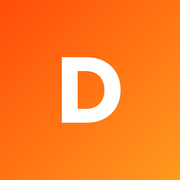
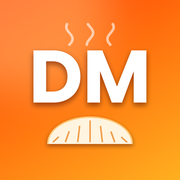
apple

diff --git a/index.html b/index.html
@@ -90,6 +90,24 @@ table{width:100%;border-collapse:collapse;font-size:14px}th,td{text-align:left;p
 .inst .x{border:0;background:none;font-size:20px;color:var(--mut);cursor:pointer;padding:6px}
 body.hasinst .fab{bottom:calc(98px + env(safe-area-inset-bottom,0px))}body.hasinst .toast{bottom:calc(170px + env(safe-area-inset-bottom,0px))}
 .bcx{font:inherit;line-height:1.5;resize:vertical}
+.hero{grid-template-columns:minmax(0,1.05fr) minmax(0,1fr)}
+@media(max-width:820px){.hero{grid-template-columns:minmax(0,1fr)}}
+.hero>*,.grid>*{min-width:0}
+html,body{max-width:100%;overflow-x:clip}
+.logo .lm,.lm{background:var(--gr);color:#fff;font-size:13px;letter-spacing:-.05em;box-shadow:0 6px 16px -8px rgba(255,90,20,.9)}
+header{transition:transform .25s}
+@media(max-width:720px){
+header{padding:6px 8px 0}header.hide{transform:translateY(-130%)}
+.hd{flex-wrap:nowrap;overflow-x:auto;gap:6px;padding:6px 8px;border-radius:14px;scrollbar-width:none;-webkit-overflow-scrolling:touch}
+.hd::-webkit-scrollbar{display:none}.hd>*{flex:none}
+.hd .logo{margin-right:2px;font-size:15px}.hd .lm{width:28px;height:28px;border-radius:8px;margin-right:6px;font-size:11px}
+.hd input{flex:0 0 120px;max-width:none;min-height:34px;padding:5px 10px;font-size:13px;border-radius:10px}
+.hd .ib{width:34px;height:34px;border-radius:10px;font-size:15px}
+.hd .btn.s{padding:5px 11px;min-height:34px;font-size:12.5px;border-radius:10px;white-space:nowrap}
+}
+.tms{display:flex;gap:12px;overflow-x:auto;scroll-snap-type:x mandatory;padding:6px 2px 12px;-webkit-overflow-scrolling:touch}
+.tm{flex:0 0 190px;scroll-snap-align:start;border:1px solid var(--line);border-radius:18px;overflow:hidden;background:var(--card);cursor:zoom-in}
+.tm img{display:block;width:100%;aspect-ratio:3/4;object-fit:cover;background:var(--soft)}.tm small{display:block;padding:8px 10px;color:var(--mut);min-height:34px}
 </style></head><body><div id="pg"></div><div id="app"></div>
 <script>
 const $=s=>document.querySelector(s),rp=n=>'Rp'+Math.round(n).toLocaleString('id-ID'),KEY='dimsummama1';
@@ -123,7 +141,7 @@ function go(h){location.hash=h}
 function draw(){expire();const r=route();let c='';
  if(r=='/')c=home();else if(r=='/keranjang')c=cart();else if(r=='/checkout')c=checkout();else if(r.startsWith('/bayar/'))c=pay(r.slice(7));else if(r=='/cek')c=cek();else if(r=='/faq')c=faq();else if(r=='/akun')c=akun();else if(r=='/admin')c=admin();else c=home();
  const n=S.cart.reduce((a,c)=>a+c.q,0);
- $('#app').innerHTML=`<header><div class="hd"><div class="logo" onclick="go('/')"><span class="lm">D</span>Dimsum&nbsp;<span>Mama</span></div><input id="q" placeholder="Cari produk…" value="${esc(V.q)}" oninput="V.q=this.value;if(route()!='/')go('/');else grid()"><button class="ib" onclick="theme()" aria-label="Ganti tema">${document.documentElement.dataset.theme=='dark'?'☀':'☾'}</button><button class="btn o s" onclick="go('/cek')">Cek pesanan</button><button class="btn o s" onclick="go('/faq')">FAQ</button><button class="btn o s" onclick="go('/akun')">${me()?'👤 '+esc(me().u):'Masuk'}</button><button class="btn s" onclick="go('/keranjang')">Keranjang (${n})</button></div></header><div class="w">${c}<p style="margin-top:30px"><a href="#/admin" class="mut">Masuk admin</a></p></div>${V.open?modal():''}${lbHTML()}<button class="fab" onclick="wa()" aria-label="WhatsApp"><svg width="26" height="26" viewBox="0 0 24 24" fill="none" stroke="currentColor" stroke-width="2" stroke-linecap="round" stroke-linejoin="round"><path d="M21 11.5a8.4 8.4 0 0 1-12.4 7.4L3 20.5l1.7-5.4A8.5 8.5 0 1 1 21 11.5z"/></svg></button>`;
+ $('#app').innerHTML=`<header><div class="hd"><div class="logo" onclick="go('/')"><span class="lm">DM</span>Dimsum&nbsp;<span>Mama</span></div><input id="q" placeholder="Cari produk…" value="${esc(V.q)}" oninput="V.q=this.value;if(route()!='/')go('/');else grid()"><button class="ib" onclick="theme()" aria-label="Ganti tema">${document.documentElement.dataset.theme=='dark'?'☀':'☾'}</button><button class="btn o s" onclick="go('/cek')">Cek pesanan</button><button class="btn o s" onclick="go('/faq')">FAQ</button><button class="btn o s" onclick="go('/akun')">${me()?'👤 '+esc(me().u):'Masuk'}</button><button class="btn s" onclick="go('/keranjang')">Keranjang (${n})</button></div></header><div class="w">${c}<p style="margin-top:30px"><a href="#/admin" class="mut">Masuk admin</a></p></div>${V.open?modal():''}${lbHTML()}<button class="fab" onclick="wa()" aria-label="WhatsApp"><svg width="26" height="26" viewBox="0 0 24 24" fill="none" stroke="currentColor" stroke-width="2" stroke-linecap="round" stroke-linejoin="round"><path d="M21 11.5a8.4 8.4 0 0 1-12.4 7.4L3 20.5l1.7-5.4A8.5 8.5 0 1 1 21 11.5z"/></svg></button>`;
  if(r=='/')grid();if(r=='/checkout')kurUI()}
 addEventListener('hashchange',draw);
 try{document.documentElement.dataset.theme=localStorage.getItem('tokotema')||'dark'}catch(e){document.documentElement.dataset.theme='dark'}
@@ -136,7 +154,7 @@ function home(){const cats=['Semua',...new Set(S.p.map(p=>p.k).filter(Boolean))]
  const fo=S.p.filter(p=>p.t=='makanan'&&tot(p)>0).length,top=[...S.p].sort((a,b)=>b.sold-a.sold||(b.d?1:0)-(a.d?1:0)).slice(0,7);
  return`<section class="hero"><div><span class="pill"><i></i>Frozen Food Homemade dari Surabaya</span><h1>Frozen Food<br>Homemade<br><em>Siap Masak</em><br><em>2-5 Menit</em></h1><p>Koleksi pakaian, aksesori, dan makanan rumahan pilihan. Pilih warna dan ukuran, bayar lewat QRIS BCA, dikirim ke seluruh Indonesia.</p><div class="ctas"><button class="btn" onclick="document.getElementById('kat').scrollIntoView()">Lihat Katalog →</button><button class="btn o" onclick="go('/cek')">Cek Pesanan</button></div><div class="bd"><span>🛡 Stok jelas per warna &amp; ukuran</span><span>⚡ Bayar QRIS BCA</span></div></div>
  <div class="gl"><div class="dots"><i></i><i></i><i></i>Dimsum Mama · Surabaya</div><div class="or"><small>Menu makanan tersedia hari ini</small><b>${fo} menu</b></div><div class="tls"><div class="tl"><small>Pengiriman</small><b><span class="dt"></span>Seluruh Indonesia</b></div><div class="tl"><small>Gojek instan</small><b><span class="dt"></span>Surabaya</b></div></div><div class="mt">PRODUK PILIHAN</div><div class="strip">${top.map(p=>`<div class="mini" onclick="openP('${p.id}')">${vis(p)}<b>${p.n}</b></div>`).join('')}</div></div></section>
- ${chatBox()}<div class="sec" id="kat"><span class="pill"><i></i>Katalog Produk</span><h2>Pilih Favoritmu</h2></div><div class="chips">${cats.map(c=>`<div class="chip ${V.cat==c?'on':''}" onclick="V.cat='${c}';draw()">${c}</div>`).join('')}</div><div class="grid" id="grid"></div>`}
+ ${chatBox()}${tmHome()}<div class="sec" id="kat"><span class="pill"><i></i>Katalog Produk</span><h2>Pilih Favoritmu</h2></div><div class="chips">${cats.map(c=>`<div class="chip ${V.cat==c?'on':''}" onclick="V.cat='${c}';draw()">${c}</div>`).join('')}</div><div class="grid" id="grid"></div>`}
 function hue(p){return[18,212,32,335,160,205,48,262,12,26,125,6][(+p.id.slice(1)-1)%12]}
 function vis(p,c,gi){const im=(p.imgs&&p.imgs[gi||0])||p.img;return`<div class="vis ${p.t}" style="--h:${hue(p)}">${c?`<span class="cat">${p.k}</span>`:''}${p.d?`<span class="off">-${Math.round(100-p.d/p.h*100)}%</span>`:''}<span class="em">${p.e||'🛍'}</span>${im?`<img class="pi" src="${esc(im)}" alt="" loading="lazy" referrerpolicy="no-referrer" onerror="this.remove()">`:''}</div>`}
 function grid(){const q=V.q.toLowerCase(),L=S.p.filter(p=>(V.cat=='Semua'||p.k==V.cat)&&p.n.toLowerCase().includes(q));
@@ -182,12 +200,12 @@ async function order(){const L=lines(),v=i=>$('#'+i).value.trim(),nm=v('nm'),wa=
   try{const {status,resi,...full}=ob;r=await fetch(u,{method:'POST',headers:{'Content-Type':'text/plain'},body:JSON.stringify({act:'order',o:full,tok:tk()})}).then(x=>x.json())}catch(e){}
   if(!r||!r.ok){rel(ob);S.o.pop();S.cart=bak;save();draw();return toast(r?'Pesanan ditolak: '+(r.err||'coba lagi'):'Tidak bisa terhubung ke toko. Cek internet lalu coba lagi.')}}
  go('/bayar/'+inv)}
-function qrimg(){return qsrc()?`<img class="qr" onclick="lbQ()" style="cursor:zoom-in" src="${esc(qsrc())}" alt="QRIS BCA toko" referrerpolicy="no-referrer">`:`<svg class="qr" viewBox="0 0 100 100"><rect width="100" height="100" fill="#fff"/><g fill="#222">${Array.from({length:225},(_,i)=>(i*7+(i>>4)*5)%3==0?`<rect x="${5+(i%15)*6}" y="${5+(i/15|0)*6}" width="5" height="5"/>`:'').join('')}</g><text x="50" y="52" font-size="7" text-anchor="middle" fill="#a3342b" font-weight="700">GAMBAR CONTOH</text><text x="50" y="60" font-size="5" text-anchor="middle" fill="#a3342b">Unggah QRIS BCA di Admin</text></svg>`}
+function qrimg(){return qsrc()?`<img class="qr" onclick="lbQ()" style="cursor:zoom-in" src="${esc(qsrc())}" alt="QRIS BCA toko" referrerpolicy="no-referrer" onerror="imgFb(this)">`:`<svg class="qr" viewBox="0 0 100 100"><rect width="100" height="100" fill="#fff"/><g fill="#222">${Array.from({length:225},(_,i)=>(i*7+(i>>4)*5)%3==0?`<rect x="${5+(i%15)*6}" y="${5+(i/15|0)*6}" width="5" height="5"/>`:'').join('')}</g><text x="50" y="52" font-size="7" text-anchor="middle" fill="#a3342b" font-weight="700">GAMBAR CONTOH</text><text x="50" y="60" font-size="5" text-anchor="middle" fill="#a3342b">Unggah QRIS BCA di Admin</text></svg>`}
 function pay(inv){const o=S.o.find(x=>x.inv==inv);if(!o)return'<div class="box">Pesanan tidak ditemukan.</div>';
  const head=`<h2>${o.inv}</h2><span class="st">${ST[o.status]}</span>`;
  if(o.status=='menunggu')return`${head}<div class="box" style="text-align:center">${qrimg()}<div class="mut">Transfer tepat sejumlah</div><div class="big">${rp(o.tf)}</div><button class="btn o s" onclick="navigator.clipboard&&navigator.clipboard.writeText('${o.tf}').then(()=>toast('Nominal disalin'))">Salin nominal</button><p class="mut">Scan QRIS BCA, ketik nominal persis ${rp(o.tf)} (termasuk kode unik ${o.kode}). Bayar sebelum ${hm(o.exp)}.</p>${qrShare(o.inv)}<button class="btn" style="width:100%;margin-top:12px" onclick="verif('${o.inv}')">Saya sudah bayar</button></div>`;
  if(o.status=='verifikasi')return`${head}<div class="box">Terima kasih. Penjual sedang mengecek pembayaran Anda. Halaman ini diperbarui otomatis.</div>`;
- if(PAID.includes(o.status))return`${head}<div class="box"><b class="ok">Pembayaran berhasil.</b> Pesanan Anda sedang diproses oleh penjual.<p><button class="btn o s" onclick="printInv('${o.inv}')">Cetak invoice</button></p>${o.resi?`<p>Kurir ${o.kurir}, resi: <b>${esc(o.resi)}</b></p>`:''}</div>`;
+ if(PAID.includes(o.status))return`${head}<div class="box"><b class="ok">Pembayaran berhasil.</b> Pesanan Anda sedang diproses oleh penjual.<p><button class="btn o s" onclick="printInv('${o.inv}')">Cetak invoice</button> <button class="btn o s" onclick="printStruk('${o.inv}')">Struk 4 cm</button></p>${o.resi?`<p>Kurir ${o.kurir}, resi: <b>${esc(o.resi)}</b></p>`:''}</div>`;
  return`${head}<div class="box">Pesanan ini ${ST[o.status].toLowerCase()}. Silakan buat pesanan baru.</div>`}
 function verif(inv){const o=S.o.find(x=>x.inv==inv);if(o&&o.status=='menunggu'){o.status='verifikasi';save();const u=S.api||API_URL;if(u)fetch(u,{method:'POST',headers:{'Content-Type':'text/plain'},body:JSON.stringify({act:'bayar',inv})}).then(r=>r.json()).then(r=>{if(!r.ok)toast('Konfirmasi belum sampai ke toko. Hubungi penjual via WhatsApp.')}).catch(()=>toast('Konfirmasi belum sampai ke toko. Cek internet.'))}draw()}
 function cek(){return`<h2>Cek pesanan</h2><div class="box"><label>Nomor invoice</label><input id="ci"><button class="btn" style="margin-top:10px" onclick="go('/bayar/'+$('#ci').value.trim())">Cek status</button></div>`}
@@ -196,9 +214,9 @@ async function mk(u,pw,r){const sl=[...crypto.getRandomValues(new Uint8Array(8))
 const connBox=()=>`<div class="box"><b>Perangkat baru? Sambungkan ke Google Sheet</b><p class="mut">Admin kedua/ketiga dan staf: <b>jangan buat akun baru</b>. Tempel kunci dari pemilik toko (kunci ADMIN untuk admin, kunci STAF untuk staf), lalu masuk dengan nama pengguna dan password yang sama.</p>${API_URL?'':'<label>URL Web App</label><input id="cu" value="'+esc(S.api||'')+'">'}<label>Kunci sinkron</label><input id="ck" type="password"><button class="btn o" style="margin-top:10px" onclick="connect()">Sambungkan &amp; tarik data</button></div>`;
 function admin(){const m=me();if(!m)return`<h2>Masuk admin / staf</h2><div class="box">${loginF()}<p class="mut" style="margin-top:12px">Akun dikelola di tab Pengguna di Google Sheet. Belum punya akun admin? Di Google Sheet pilih menu Dimsum Mama &gt; Tambah akun ADMIN.</p></div>`;if(m.r=='customer')return`<h2>Admin</h2><div class="box">Akun ini adalah akun pelanggan, bukan admin. <button class="btn r s" onclick="keluar()">Keluar</button></div>`;
  if(!m){const none=!(S.users&&S.users.length);return`<h2>Admin</h2>`+(none?`<div class="box"><b>Buat akun admin pertama</b><p class="mut">Buat nama pengguna dan password Anda sendiri (minimal 8 karakter). Lakukan ini sebelum toko dipublikasikan.</p><label>Nama pengguna (minimal 3 huruf/angka, tanpa spasi)</label><input id="su" autocomplete="username"><label>Password</label><input id="sp" type="password" autocomplete="new-password"><label>Ulangi password</label><input id="sq" type="password"><button class="btn" style="margin-top:10px" onclick="setup()">Buat admin</button></div>${connBox()}`:`<div class="box"><label>Nama pengguna</label><input id="lu" autocomplete="username"><label>Password</label><input id="pw" type="password" autocomplete="current-password" onkeydown="if(event.key=='Enter')login()"><button class="btn" style="margin-top:10px" onclick="login()">Masuk</button><p class="mut" style="margin-top:12px">Lupa password atau akun tidak dikenali? <a href="javascript:resetAkun()">Buat ulang akun di perangkat ini</a></p></div>${connBox()}`)}
- const T=m.r=='staf'?{stk:'Stok',inv:'Invoice'}:{ver:'Verifikasi',ord:'Pesanan',kas:'Kasir',bc:'Broadcast',stk:'Stok',lap:'Laporan',usr:'Pengguna',set:'Pengaturan'},pend=S.o.filter(o=>o.status=='verifikasi'||o.status=='menunggu').length;
+ const T=m.r=='staf'?{stk:'Stok',inv:'Invoice'}:{ver:'Verifikasi',ord:'Pesanan',kas:'Kasir',bc:'Broadcast',tm:'Testimoni',stk:'Stok',lap:'Laporan',usr:'Pengguna',set:'Pengaturan'},pend=S.o.filter(o=>o.status=='verifikasi'||o.status=='menunggu').length;
  if(!T[V.tab])V.tab=Object.keys(T)[0];
- return`${gk()?'':'<div class="box" style="border-color:#d29922"><b>Belum tersambung ke Google Sheet.</b> Buka tab Pengaturan, tempel Kunci sinkron (dari menu Dimsum Mama di Google Sheet), lalu tekan Tes sambungan. Tanpa kunci, perubahan hanya tersimpan di browser ini.</div>'}<div class="row"><h2>${m.r=='staf'?'Staf: stok & invoice':'Dashboard admin'} · ${esc(m.u)}</h2><button class="btn o s" onclick="keluar()">Keluar</button></div><div class="tabs">${Object.keys(T).map(k=>`<div class="chip ${V.tab==k?'on':''}" onclick="V.tab='${k}';draw()">${T[k]}${k=='ver'&&pend?' ('+pend+')':''}</div>`).join('')}</div>${{ver:aVer,ord:aOrd,kas:aKas,bc:aBc,stk:aStk,inv:aInv,lap:aLap,usr:aUsr,set:aSet}[V.tab]()}`}
+ return`${gk()?'':'<div class="box" style="border-color:#d29922"><b>Belum tersambung ke Google Sheet.</b> Buka tab Pengaturan, tempel Kunci sinkron (dari menu Dimsum Mama di Google Sheet), lalu tekan Tes sambungan. Tanpa kunci, perubahan hanya tersimpan di browser ini.</div>'}<div class="row"><h2>${m.r=='staf'?'Staf: stok & invoice':'Dashboard admin'} · ${esc(m.u)}</h2><button class="btn o s" onclick="keluar()">Keluar</button></div><div class="tabs">${Object.keys(T).map(k=>`<div class="chip ${V.tab==k?'on':''}" onclick="V.tab='${k}';draw()">${T[k]}${k=='ver'&&pend?' ('+pend+')':''}</div>`).join('')}</div>${{ver:aVer,ord:aOrd,kas:aKas,bc:aBc,tm:aTm,stk:aStk,inv:aInv,lap:aLap,usr:aUsr,set:aSet}[V.tab]()}`}
 async function login(){try{await login0()}catch(e){toast('Gagal masuk: '+(e&&e.message||e||'cek koneksi / buka lewat https'))}}
 async function login0(){const n=$('#lu').value.trim(),u=(S.users||[]).find(x=>x.u==n);if(!u||await hs($('#pw').value,u.s)!=u.h)return toast('Nama pengguna atau password salah.');sessionStorage.setItem('adm',u.u);if((S.api||API_URL)&&gk())await pull(0);draw()}
 async function setup(){try{await setup0()}catch(e){toast('Gagal membuat admin: '+(e&&e.message||e||'buka lewat https atau localhost'))}}
@@ -215,7 +233,7 @@ function sync(){if(!(S.api||API_URL)||!adm()||!gk())return;clearTimeout(sync.t);
 async function push(t){if(!(S.api||API_URL))return toast('URL Web App belum diisi.');const m=me();if(!m)return;push.b=1;try{const r=await post(m.r=='staf'?{act:'stok',p:S.p.map(p=>({id:p.id,t:p.t,habis:p.habis,v:p.v}))}:{act:'push',state:{...S,qris:''}});if(!r.ok)toast('Sync gagal: '+(r.err=='Kunci salah'?'Kunci salah atau kosong. Cek Admin > Pengaturan.':(r.err||'')));else t&&toast('Terkirim ke Google Sheet.')}catch(e){toast('Tidak bisa menghubungi Google Sheet.')}push.b=0}
 async function pull(t){if(!(S.api||API_URL))return toast('URL Web App belum diisi.');try{const r=await post({act:'pull'});if(!r.ok)return toast('Gagal: '+(r.err||'tidak diketahui'));if(r.state){const st=r.state;if(st.lim){S.p=st.p;if(st.qrisUrl)S.qrisUrl=st.qrisUrl;if(st.wa)S.wa=st.wa;if(!(me()&&me().r=='admin')){S.users=st.users;S.o=st.o||[]}}else{const q=S.qris,a=S.api,b=S.bc,bp=S.bcp;S=st;S.qris=q;S.api=a;if(!S.bc&&b)S.bc=b;if(!S.bcp&&bp)S.bcp=bp}localStorage.setItem(KEY,JSON.stringify(S));await poll(1);t&&toast('Data ditarik dari Google Sheet.')}else t&&toast('Sheet masih kosong. Tekan Kirim ke Sheet dulu.');draw()}catch(e){toast('Tidak bisa menghubungi Google Sheet.')}}
 async function connect(){const u=API_URL||($('#cu')?$('#cu').value.trim():'');if(!u)return toast('Isi URL Web App.');S.api=u;localStorage.setItem(KS,$('#ck').value.trim());await pull(1)}
-function pub(){const u=S.api||API_URL;if(!u||adm())return;fetch(u).then(r=>r.json()).then(r=>{if(!r||!r.ok)return;if(r.p)S.p=r.p;if(r.qris)S.qrisUrl=r.qris;if(r.wa)S.wa=r.wa;if(r.chat)S.chat=r.chat;localStorage.setItem(KEY,JSON.stringify(S));if(route()=='/')draw()}).catch(()=>{})}
+function pub(){const u=S.api||API_URL;if(!u)return;fetch(u).then(r=>r.json()).then(r=>{if(!r||!r.ok)return;const a0=JSON.stringify([S.qrisUrl,S.wa,S.chat,S.testi,adm()?0:S.p]);if(r.p&&!adm())S.p=r.p;if(r.qris)S.qrisUrl=r.qris;if(r.wa)S.wa=r.wa;if(r.chat)S.chat=r.chat;if(r.testi)S.testi=r.testi;localStorage.setItem(KEY,JSON.stringify(S));if(a0!=JSON.stringify([S.qrisUrl,S.wa,S.chat,S.testi,adm()?0:S.p])&&(route()=='/'||adm()))draw()}).catch(()=>{})}
 async function tes(){const el=$('#gst');const set=h=>{if(el)el.innerHTML=h};set('Menguji sambungan...');
  if(!(S.api||API_URL))return set('<span style="color:#e5484d">URL Web App belum diisi.</span>');
  if(!gk())return set('<span style="color:#e5484d">Kunci belum ditempel.</span> Tempel kunci ADMIN di kolom di atas.');
@@ -256,8 +274,8 @@ function instX(){localStorage.setItem('tokoinst',Date.now());instUI()}
 const appBox=()=>`<div class="box"><b>Aplikasi di HP</b><p class="mut">Toko dan dashboard penjual bisa dipasang seperti aplikasi tanpa Play Store. Harus dibuka lewat alamat https (hosting), bukan dari file di HP.</p><ol class="mut" style="padding-left:18px"><li>Buka alamat toko di Chrome (Android) atau Safari (iPhone).</li><li>Tekan tombol <b>Instal</b> yang muncul di bawah, atau menu ⋮ &gt; Instal aplikasi, atau Bagikan &gt; Tambah ke Layar Utama.</li><li>Untuk aplikasi Penjual (langsung ke dashboard), tekan tombol di bawah lalu instal dari sana.</li></ol><div class="row"><button class="btn s" onclick="location.href=location.pathname+'?app=admin#/admin'">Buka versi aplikasi Penjual</button><span class="mut">${STANDALONE?'Sedang berjalan sebagai aplikasi':''}</span></div></div>`;
 
 /* ===== Broadcast WhatsApp ===== */
-const DEF_BC="SELAMAT DATANG DI DAPUR BEKAL SURABAYA 🍤\nFrozen Food Premium Homemade - Ngagel, Surabaya\n\nKENAPA BELI DI KAMI?\n✅ 100% Homemade & Fresh Setiap Hari\n✅ Bahan Premium - 80 ℅ Full Udang & Ayam Asli\n✅ Tanpa Pengawet Berbahaya\n✅ Halal & Higienis\n✅ Siap Masak 2-5 Menit\n\nMENU BEST SELLER: 80℅ Full Daging\n\n🦐 SHRIMP ROLL - Luar krispi, dalam juicy full udang\n🥟 DIMSUM AYAM UDANG - Lembut, gurih, topping melimpah\n\nPENGIRIMAN:\n📍 Dari: Ngagel, Surabaya\n🛵 INSTANT / SAME DAY: 08.00 - 15.00 WIB\n\nCARA PENYIMPANAN:\nSimpan di freezer tahan hingga 30 hari. Jangan cairkan berulang.\n\nJam Operasional: Setiap Hari 08.00 - 15.00 WIB\nChat dulu untuk cek stok & ongkir instant ya!\n\nTerima kasih sudah belanja di Dapur Bekal Surabaya 🙏",DEF_BP="{emoji} *{nama}*\nHarga {harga} | Stok {stok}\nChat dulu untuk cek stok & ongkir instant ya!";
-function bcL(){if(!S.bc){S.bc=[{id:'b1',judul:'Sambutan & info toko',isi:DEF_BC}];save()}return S.bc}
+const DEF_BC="SELAMAT DATANG DI DIMSUM MAMA 🍤\nFrozen Food Premium Homemade - Ngagel, Surabaya\n\nKENAPA BELI DI KAMI?\n✅ 100% Homemade & Fresh Setiap Hari\n✅ Bahan Premium - 80% Full Udang & Ayam Asli\n✅ Tanpa Pengawet Berbahaya\n✅ Halal & Higienis\n✅ Siap Masak 2-5 Menit\n\nMENU BEST SELLER: 80% Full Daging\n\n🦐 SHRIMP ROLL - Luar krispi, dalam juicy full udang\n🥟 DIMSUM AYAM UDANG - Lembut, gurih, topping melimpah\n\nPENGIRIMAN:\n📍 Dari: Ngagel, Surabaya\n🛵 INSTANT / SAME DAY: 08.00 - 15.00 WIB\n\nCARA PENYIMPANAN:\nSimpan di freezer tahan hingga 30 hari. Jangan cairkan berulang.\n\nJam Operasional: Setiap Hari 08.00 - 15.00 WIB\nChat dulu untuk cek stok & ongkir instant ya!\n\nTerima kasih sudah belanja di Dimsum Mama 🙏",DEF_BP="{emoji} *{nama}*\nHarga {harga} | Stok {stok}\nChat dulu untuk cek stok & ongkir instant ya!";
+function bcL(){if(!S.bc){S.bc=[{id:'b1',judul:'Sambutan & info toko',isi:DEF_BC}];save()}let ch=0;S.bc.forEach(b=>{const n=String(b.isi).replace(/DAPUR BEKAL SURABAYA/gi,m=>m==m.toUpperCase()?'DIMSUM MAMA':'Dimsum Mama').replace(/(\d)\s*℅/g,'$1%');if(n!=b.isi){b.isi=n;ch=1}});if(ch)save();return S.bc}
 function bcT(p){const st=tot(p),l=location.protocol=='file:'?'':location.origin+location.pathname,m={nama:p.n,emoji:p.e||'',harga:rp(price(p)),harga_asli:rp(p.h),stok:st>0?st+(p.t=='makanan'?' porsi':' pcs'):'HABIS',kategori:p.k,link:l};
  return(S.bcp||DEF_BP).replace(/\{(\w+)\}/g,(x,k)=>k in m?m[k]:x).replace(/^ +/gm,'').replace(/\n{3,}/g,'\n\n').trim()}
 const bcList=()=>S.p.filter(p=>((V.bck||'Semua')=='Semua'||p.k==V.bck)&&(!V.bch||tot(p)>0));
@@ -273,6 +291,25 @@ function aBc(){const L=bcL(),cats=['Semua',...new Set(S.p.map(p=>p.k))],P2=bcLis
  <div class="box" style="margin-top:16px"><b>Pesan per barang (frozen food dan lainnya)</b><p class="mut">Pola ini dipakai untuk setiap barang. Isian yang bisa dipakai: {nama} {emoji} {harga} {harga_asli} {stok} {kategori} {link}. Tulis *teks* untuk huruf tebal di WhatsApp.</p><textarea class="bcx" rows="5" oninput="S.bcp=this.value" onchange="save();draw()">${esc(S.bcp||DEF_BP)}</textarea><div class="row" style="margin-top:8px"><select style="flex:1" onchange="V.bck=this.value;draw()">${cats.map(c=>`<option ${(V.bck||'Semua')==c?'selected':''}>${esc(c)}</option>`).join('')}</select><label style="margin:0;display:flex;gap:6px;align-items:center"><input type="checkbox" style="width:auto;min-height:0" ${V.bch?'checked':''} onchange="V.bch=this.checked;draw()"> Sembunyikan yang habis</label></div><button class="btn s" style="margin-top:10px" onclick="salin(bcAll())">Salin semua (${P2.length} barang)</button></div>`+
  P2.map(p=>`<div class="box"><pre style="white-space:pre-wrap;margin:0 0 8px;font:inherit">${esc(bcT(p))}</pre><div class="row"><button class="btn s" onclick="salin(bcT(P('${p.id}')))">Salin</button><button class="btn o s" onclick="kirimWA(bcT(P('${p.id}')))">Buka WhatsApp</button></div></div>`).join('')}
 instUI();
+
+/* ===== Tampilan HP: bar atas bersembunyi saat scroll ke bawah ===== */
+let LY=0;addEventListener('scroll',()=>{const h=document.querySelector('header');if(!h)return;const y=scrollY;if(innerWidth<=720)h.classList.toggle('hide',y>LY&&y>90);else h.classList.remove('hide');LY=y},{passive:true});
+/* ===== Gambar Google Drive: coba beberapa cara muat ===== */
+const QFAIL=()=>'<div class="box" style="border-color:var(--bad)"><b class="bad">Gambar QRIS tidak bisa dimuat</b><p class="mut">Pastikan file di Google Drive dibagikan "Anyone with the link" dan berupa gambar JPG/PNG (bukan PDF atau folder). <a href="'+esc(qsrc())+'" target="_blank" rel="noopener">Buka link gambar</a> untuk mengecek.</p></div>';
+function imgFb(el){const m=String(el.src).match(/googleusercontent\.com\/d\/([\w-]+)/)||String(el.src).match(/[?&]id=([\w-]+)/),n=+(el.dataset.n||0)+1;el.dataset.n=n;const id=m&&m[1],alt=id?['https://drive.google.com/thumbnail?id='+id+'&sz=w1000','https://drive.google.com/uc?export=view&id='+id]:[];if(n<=alt.length){el.src=alt[n-1];return}el.onerror=null;if(el.classList.contains('qr'))el.outerHTML=QFAIL();else el.style.opacity=.25}
+/* ===== Testimoni (gambar) ===== */
+const tmImgs=()=>(S.testi||[]).map(t=>t.img);
+function tmView(i){openLb(tmImgs(),i)}
+function tmHome(){const L=S.testi||[];if(!L.length)return'';return`<div class="sec"><span class="pill"><i></i>Testimoni</span><h2>Kata Pelanggan</h2></div><div class="tms">${L.map((t,i)=>`<div class="tm" onclick="tmView(${i})"><img src="${esc(t.img)}" alt="Testimoni pelanggan" loading="lazy" referrerpolicy="no-referrer" onerror="imgFb(this)"><small>${esc(t.cap||'')}</small></div>`).join('')}</div>`}
+function aTm(){const L=S.testi||[];return`<div class="box"><b>Testimoni pelanggan</b><p class="mut">Unggah gambar testimoni (tangkapan layar chat atau foto pelanggan). Gambar tampil di halaman depan toko dan disimpan di Google Drive, jadi Google Sheet harus sudah tersambung.</p><label>Keterangan (opsional, mis. nama pelanggan)</label><input id="tmc" placeholder="Mis. Bu Rina, Surabaya"><button class="btn" style="margin-top:10px" onclick="tmUp()">Pilih gambar &amp; unggah</button><p class="mut" id="tms"></p></div>`+(L.length?`<div class="grid">${L.map((t,i)=>`<div class="card" style="cursor:default"><img src="${esc(t.img)}" alt="" referrerpolicy="no-referrer" style="display:block;width:100%;aspect-ratio:3/4;object-fit:cover;cursor:zoom-in" onclick="tmView(${i})" onerror="imgFb(this)"><div class="cb"><small>${esc(t.cap||'Tanpa keterangan')}</small><button class="btn r s" style="margin-top:8px" onclick="tmDel('${esc(t.id)}')">Hapus</button></div></div>`).join('')}</div>`:'<p class="mut">Belum ada testimoni.</p>')}
+function tmUp(){const i=document.createElement('input');i.type='file';i.accept='image/*';i.multiple=true;i.onchange=async()=>{const fs=[...i.files];if(!fs.length)return;const cap=($('#tmc')||{}).value||'',st=document.getElementById('tms');let ok=0;for(let k=0;k<fs.length;k++){if(st)st.textContent='Mengunggah '+(k+1)+' dari '+fs.length+'…';const d=await new Promise(r=>resizeF(fs[k],r));if(!d){toast('Gambar '+(k+1)+' tidak bisa dibaca.');continue}try{const r=await post({act:'foto',id:'testi',data:d,only:1});if(!r.ok){toast('Gagal: '+(r.err||''));break}const q=await post({act:'testi_add',img:r.url,cap:cap});if(!q.ok){toast('Gagal: '+(q.err||''));break}ok++}catch(e){toast('Gagal unggah. Cek sambungan Google Sheet.');break}}if(st)st.textContent='';if(ok)toast(ok+' testimoni ditambahkan.');pub()};i.click()}
+async function tmDel(id){if(!confirm('Hapus testimoni ini?'))return;try{const r=await post({act:'testi_del',id});if(!r.ok)return toast('Gagal: '+(r.err||''));S.testi=(S.testi||[]).filter(t=>t.id!=id);save();draw()}catch(e){toast('Gagal menghubungi Google Sheet.')}}
+/* ===== Struk 4 cm (tanpa nama toko) ===== */
+function printStruk(inv){const o=S.o.find(x=>x.inv==inv);if(!o)return;if(!PAID.includes(o.status))return toast('Struk tersedia setelah pesanan dibayar.');const w=open('','_blank');if(!w)return toast('Izinkan pop-up untuk mencetak.');
+ const n=x=>Number(x||0).toLocaleString('id-ID'),k=o.src=='kasir',dt=new Date(o.paid||o.t).toLocaleString('id-ID',{day:'2-digit',month:'2-digit',year:'2-digit',hour:'2-digit',minute:'2-digit'}),
+ rows=o.items.map(i=>`<div class="n">${esc(i.n)}${i.key=='porsi'?'':' ('+esc(String(i.key).replace('|','/'))+')'}</div><div class="r"><span>${i.q} x ${n(i.hd)}</span><span>${n(i.hd*i.q)}</span></div>`).join('');
+ w.document.write(`<!doctype html><html lang="id"><head><meta charset="utf-8"><meta name="viewport" content="width=device-width,initial-scale=1"><title>Struk ${esc(o.inv)}</title><style>@page{size:40mm 150mm;margin:0}*{box-sizing:border-box}body{margin:0;background:#e5e5e5;font:9px/1.3 "Courier New",monospace;color:#000}.k{width:40mm;margin:12px auto;background:#fff;padding:3mm 2.5mm;box-shadow:0 2px 10px rgba(0,0,0,.25)}.c{text-align:center}.b{font-weight:700}.r{display:flex;justify-content:space-between;gap:4px}.n{word-break:break-word;margin-top:3px}.l{border-top:1px dashed #000;margin:4px 0}.t{font-size:11px;font-weight:700}.btn{display:block;margin:10px auto;padding:8px 18px;font:14px sans-serif}@media print{body{background:#fff}.k{margin:0;box-shadow:none}.btn{display:none}}</style></head><body><div class="k"><div class="c b">STRUK</div><div class="c">${esc(o.inv)}</div><div class="c">${dt}</div><div class="l"></div><div>Pembeli: ${esc(o.nama||'-')}</div><div class="l"></div>${rows}<div class="l"></div><div class="r"><span>Subtotal</span><span>${n(o.sub)}</span></div>${!k&&o.ongkir?`<div class="r"><span>Ongkir</span><span>${n(o.ongkir)}</span></div>`:''}${!k&&o.kode?`<div class="r"><span>Kode unik</span><span>${n(o.kode)}</span></div>`:''}<div class="r t"><span>TOTAL</span><span>${n(o.tf||o.total)}</span></div><div class="l"></div><div>Bayar: ${k?esc(o.bayar||'Cash'):'QRIS BCA'}</div><div class="c b" style="margin-top:3px">** LUNAS **</div>${o.resi?`<div class="c">Resi ${esc(o.kurir)}: ${esc(o.resi)}</div>`:''}<div class="l"></div><div class="c">Terima kasih</div></div><button class="btn" onclick="print()">Cetak</button></body></html>`);
+ w.document.close();setTimeout(()=>{try{const h=Math.ceil(w.document.querySelector('.k').scrollHeight*25.4/96)+4,st=w.document.createElement('style');st.textContent='@page{size:40mm '+h+'mm;margin:0}';w.document.head.appendChild(st);w.print()}catch(e){}},350)}
 function items(o){return o.items.map(i=>`${i.n}${i.key=='porsi'?'':' ('+i.key.replace('|','/')+')'} ×${i.q}`).join(', ')}
 function aVer(){const L=S.o.filter(o=>o.status=='verifikasi'||o.status=='menunggu').sort((a,b)=>(a.status=='verifikasi'?0:1)-(b.status=='verifikasi'?0:1));
  return`<p class="mut">Buka KlikBCA, menu Mutasi Rekening, lalu cocokkan nominal persis. Setujui hanya jika uang sudah masuk.</p>`+(L.length?L.map(o=>`<div class="box"><div class="row"><b>${o.inv}</b><span class="st">${ST[o.status]}</span></div>${esc(o.nama)} · ${o.kota}<div class="mut">${esc(items(o))}</div><div class="row" style="margin-top:8px"><span>Total transfer</span><b class="big">${rp(o.tf)}</b></div><label>Nominal masuk di mutasi</label><input id="n${o.inv}" type="number" value="${o.tf}"><div class="row" style="margin-top:10px"><button class="btn g" onclick="approve('${o.inv}')">Setujui</button><button class="btn r" onclick="reject('${o.inv}')">Tolak</button></div></div>`).join(''):'<div class="box">Tidak ada pembayaran yang menunggu.</div>')}
@@ -281,7 +318,7 @@ function approve(inv){const o=S.o.find(x=>x.inv==inv);if(!o||!['menunggu','verif
  const lg=[];o.items.forEach(i=>{const p=P(i.pid),a=p.v[i.key].s;p.v[i.key].r-=i.q;p.v[i.key].s-=i.q;p.sold+=i.q;lg.push({n:i.n,k:i.key=='porsi'?'porsi':i.key.replace('|',' / '),j:'Keluar (terjual)',q:i.q,a,b:a-i.q,c:o.inv})});logStok(lg);o.status='dibayar';o.paid=Date.now();o.by=me().u;save();draw();toast('Pembayaran disetujui oleh '+me().u+'.')}
 function reject(inv){const o=S.o.find(x=>x.inv==inv);if(!o||!['menunggu','verifikasi'].includes(o.status))return;rel(o);o.status='dibatalkan';o.by=me().u;save();draw()}
 function aOrd(){const L=S.o.filter(o=>PAID.includes(o.status)).reverse();
- return L.length?L.map(o=>`<div class="box"><div class="row"><b>${o.inv}</b><span class="st">${ST[o.status]}</span></div>${esc(o.nama)} · ${esc(o.wa)}<div class="mut">${o.src=='kasir'?'Penjualan kasir · '+esc(o.bayar):esc(o.alamat)+', '+o.kota+' '+o.pos}</div><div>${esc(items(o))}</div>${byTxt(o)}${o.cat?`<div class="mut">Catatan: ${esc(o.cat)}</div>`:''}<div class="mut">Kurir ${o.kurir} · ${rp(o.total)}${o.food?' · MAKANAN, kirim segera':''}</div><button class="btn o s" style="margin:6px 6px 0 0" onclick="printInv('${o.inv}')">Cetak invoice</button>${o.status=='dibayar'?`<button class="btn s" onclick="setSt('${o.inv}','dikemas')">Mulai dikemas</button>`:''}${o.status=='dikemas'?`<div class="row" style="margin-top:8px"><input id="r${o.inv}" placeholder="Nomor resi / kode order" style="flex:1"><button class="btn s" onclick="setSt('${o.inv}','dikirim')">Tandai dikirim</button></div>`:''}${o.status=='dikirim'?`<div class="mut">Resi: ${esc(o.resi)}</div><button class="btn s" onclick="setSt('${o.inv}','selesai')">Selesai</button>`:''}</div>`).join(''):'<div class="box">Belum ada pesanan yang dibayar. Pesanan baru dari pembeli muncul dulu di tab <b>Verifikasi</b>, lalu pindah ke sini setelah Anda tekan Setujui.</div>'}
+ return L.length?L.map(o=>`<div class="box"><div class="row"><b>${o.inv}</b><span class="st">${ST[o.status]}</span></div>${esc(o.nama)} · ${esc(o.wa)}<div class="mut">${o.src=='kasir'?'Penjualan kasir · '+esc(o.bayar):esc(o.alamat)+', '+o.kota+' '+o.pos}</div><div>${esc(items(o))}</div>${byTxt(o)}${o.cat?`<div class="mut">Catatan: ${esc(o.cat)}</div>`:''}<div class="mut">Kurir ${o.kurir} · ${rp(o.total)}${o.food?' · MAKANAN, kirim segera':''}</div><button class="btn o s" style="margin:6px 6px 0 0" onclick="printInv('${o.inv}')">Cetak invoice</button>${PAID.includes(o.status)?`<button class="btn o s" style="margin:6px 6px 0 0" onclick="printStruk('${o.inv}')">Struk 4 cm</button>`:''}${o.status=='dibayar'?`<button class="btn s" onclick="setSt('${o.inv}','dikemas')">Mulai dikemas</button>`:''}${o.status=='dikemas'?`<div class="row" style="margin-top:8px"><input id="r${o.inv}" placeholder="Nomor resi / kode order" style="flex:1"><button class="btn s" onclick="setSt('${o.inv}','dikirim')">Tandai dikirim</button></div>`:''}${o.status=='dikirim'?`<div class="mut">Resi: ${esc(o.resi)}</div><button class="btn s" onclick="setSt('${o.inv}','selesai')">Selesai</button>`:''}</div>`).join(''):'<div class="box">Belum ada pesanan yang dibayar. Pesanan baru dari pembeli muncul dulu di tab <b>Verifikasi</b>, lalu pindah ke sini setelah Anda tekan Setujui.</div>'}
 function setSt(inv,s){const o=S.o.find(x=>x.inv==inv);if(s=='dikirim'){const r=$('#r'+inv).value.trim();if(!r)return toast('Isi nomor resi dulu.');o.resi=r}o.status=s;save();draw()}
 const fotoBtn=p=>me().r=='admin'?`<div style="margin-top:8px"><button class="btn o s" onclick="upFoto('${p.id}')">📷 Tambah foto (${(p.imgs&&p.imgs.length)||(p.img?1:0)})</button> <span class="mut">masuk ke Drive dan tab Barang</span></div>`:'';
 function upFoto(id){const i=document.createElement('input');i.type='file';i.accept='image/*';i.onchange=()=>{const f=i.files[0];if(!f)return;const im=new Image();im.onload=async()=>{try{const k=Math.min(1,900/Math.max(im.width,im.height)),c=document.createElement('canvas');c.width=Math.round(im.width*k);c.height=Math.round(im.height*k);c.getContext('2d').drawImage(im,0,0,c.width,c.height);toast('Mengunggah foto…');const r=await post({act:'foto',id,data:c.toDataURL('image/jpeg',.82)});if(!r.ok)return toast('Gagal: '+(r.err||'tidak diketahui'));toast('Foto masuk ke Drive dan Sheet.');await pull(1)}catch(e){toast('Gagal unggah: '+(e&&e.message||e))}};im.src=URL.createObjectURL(f)};i.click()}
@@ -291,7 +328,7 @@ function logStok(L){const u=S.api||API_URL,m=me();if(!u||!m||!gk()||!L.length)re
 function gerak(id,d){const m=me();if(!m)return;const p=P(id),k=p.t=='fashion'?$('#mk_'+id).value:'porsi',q=Math.floor(+$('#mq_'+id).value);if(!(q>0))return toast('Isi jumlah lebih dari 0.');const a=p.v[k].s;if(d<0&&q>a)return toast('Stok hanya '+a+'. Tidak bisa dikeluarkan '+q+'.');
  p.v[k].s=a+d*q;logStok([{n:p.n,k:k=='porsi'?'porsi':k.replace('|',' / '),j:d>0?'Masuk':'Keluar',q,a,b:p.v[k].s,c:$('#mc_'+id).value.trim()}]);save();draw();toast((d>0?'Barang masuk ':'Barang keluar ')+q+'. Stok sekarang '+p.v[k].s+'.')}
 const gerakBox=p=>`<div class="box" style="margin-top:10px"><b>Barang masuk / keluar</b><div class="row" style="margin-top:6px;flex-wrap:wrap">${p.t=='fashion'?`<select id="mk_${p.id}">${Object.keys(p.v).map(k=>`<option value="${esc(k)}">${esc(k.replace('|',' / '))} (stok ${p.v[k].s})</option>`).join('')}</select>`:''}<input id="mq_${p.id}" type="number" min="1" placeholder="Jumlah" style="width:90px"><input id="mc_${p.id}" placeholder="Catatan (misal: kulakan, rusak)" style="flex:1;min-width:140px"></div><div class="row" style="margin-top:8px"><button class="btn g s" onclick="gerak('${p.id}',1)">+ Masuk</button><button class="btn r s" onclick="gerak('${p.id}',-1)">- Keluar</button></div></div>`
-const invList=()=>{const q=(V.iq||'').toLowerCase(),L=S.o.filter(o=>PAID.includes(o.status)&&(!q||(o.inv+' '+o.nama).toLowerCase().includes(q))).slice().reverse().slice(0,50);return L.length?L.map(o=>`<div class="box"><div class="row"><b>${esc(o.inv)}</b><span class="st">${ST[o.status]}</span></div>${esc(o.nama)} · ${o.src=='kasir'?'Kasir':esc(o.kota)}<div class="mut">${esc(items(o))} · ${rp(o.tf)}</div>${byTxt(o)}<button class="btn s" style="margin-top:8px" onclick="printInv('${o.inv}')">Cetak invoice A5</button></div>`).join(''):'<div class="box">Tidak ada pesanan dibayar yang cocok.</div>'}
+const invList=()=>{const q=(V.iq||'').toLowerCase(),L=S.o.filter(o=>PAID.includes(o.status)&&(!q||(o.inv+' '+o.nama).toLowerCase().includes(q))).slice().reverse().slice(0,50);return L.length?L.map(o=>`<div class="box"><div class="row"><b>${esc(o.inv)}</b><span class="st">${ST[o.status]}</span></div>${esc(o.nama)} · ${o.src=='kasir'?'Kasir':esc(o.kota)}<div class="mut">${esc(items(o))} · ${rp(o.tf)}</div>${byTxt(o)}<button class="btn s" style="margin-top:8px" onclick="printInv('${o.inv}')">Cetak invoice A5</button>${PAID.includes(o.status)?`<button class="btn o s" style="margin:8px 0 0 6px" onclick="printStruk('${o.inv}')">Struk 4 cm</button>`:''}</div>`).join(''):'<div class="box">Tidak ada pesanan dibayar yang cocok.</div>'}
 function aInv(){return`<div class="box"><b>Cetak invoice (kertas A5)</b><p class="mut">Hanya pesanan yang sudah dibayar. Di jendela cetak, pilih ukuran kertas A5.</p><input placeholder="Cari nomor invoice atau nama" value="${esc(V.iq||'')}" oninput="V.iq=this.value;$('#il').innerHTML=invList()"></div><div id="il">${invList()}</div>`}
 function aLap(){const O=S.o.filter(o=>PAID.includes(o.status)),d=new Date(),same=(t,f)=>{const x=new Date(t);return x.getFullYear()==d.getFullYear()&&x.getMonth()==d.getMonth()&&(f||x.getDate()==d.getDate())};
  const sum=L=>L.reduce((a,o)=>a+o.sub,0),per={};O.forEach(o=>o.items.forEach(i=>{const e=per[i.n]||(per[i.n]={q:0,r:0});e.q+=i.q;e.r+=i.hd*i.q}));
